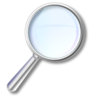
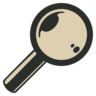
modify

diff --git a/index.html b/index.html
@@ -78,7 +78,7 @@ description: Home Page for GreedTeam
 			</div>
 
 			<div class="col-md-2 col-sm-3 col-xs-6">
-				<a href="search/" title="Search" class="tile red bord mc-ico"></a>
+				<a href="search/" title="Search" class="tile red bord se-ico"></a>
 			</div>
 
 			<div class="col-md-2 col-sm-3 col-xs-6">
@@ -88,10 +88,6 @@ description: Home Page for GreedTeam
 			<div class="col-md-2 col-sm-3 col-xs-6">
 				<a href="{{site.weibo}}" class="tile blue bord wb-ico"></a>
 			</div>
-
-
-
-
 
 			<div class="col-md-2 col-sm-3 col-xs-6 flip-front ha">
 				<div class="live-tile" data-mode="flip" data-delay="4000">
@@ -109,7 +105,6 @@ description: Home Page for GreedTeam
 					</div>
 				</div>
 			</div>
-
 
 
 			<!-- Mini tile -->

diff --git a/_site/index.html b/_site/index.html
@@ -179,7 +179,7 @@
 			</div>
 
 			<div class="col-md-2 col-sm-3 col-xs-6">
-				<a href="search/" title="Search" class="tile red bord mc-ico"></a>
+				<a href="search/" title="Search" class="tile red bord se-ico"></a>
 			</div>
 
 			<div class="col-md-2 col-sm-3 col-xs-6">
@@ -189,10 +189,6 @@
 			<div class="col-md-2 col-sm-3 col-xs-6">
 				<a href="http://weibo.com/360GreedTeam" class="tile blue bord wb-ico"></a>
 			</div>
-
-
-
-
 
 			<div class="col-md-2 col-sm-3 col-xs-6 flip-front ha">
 				<div class="live-tile" data-mode="flip" data-delay="4000">
@@ -210,7 +206,6 @@
 					</div>
 				</div>
 			</div>
-
 
 
 			<!-- Mini tile -->
